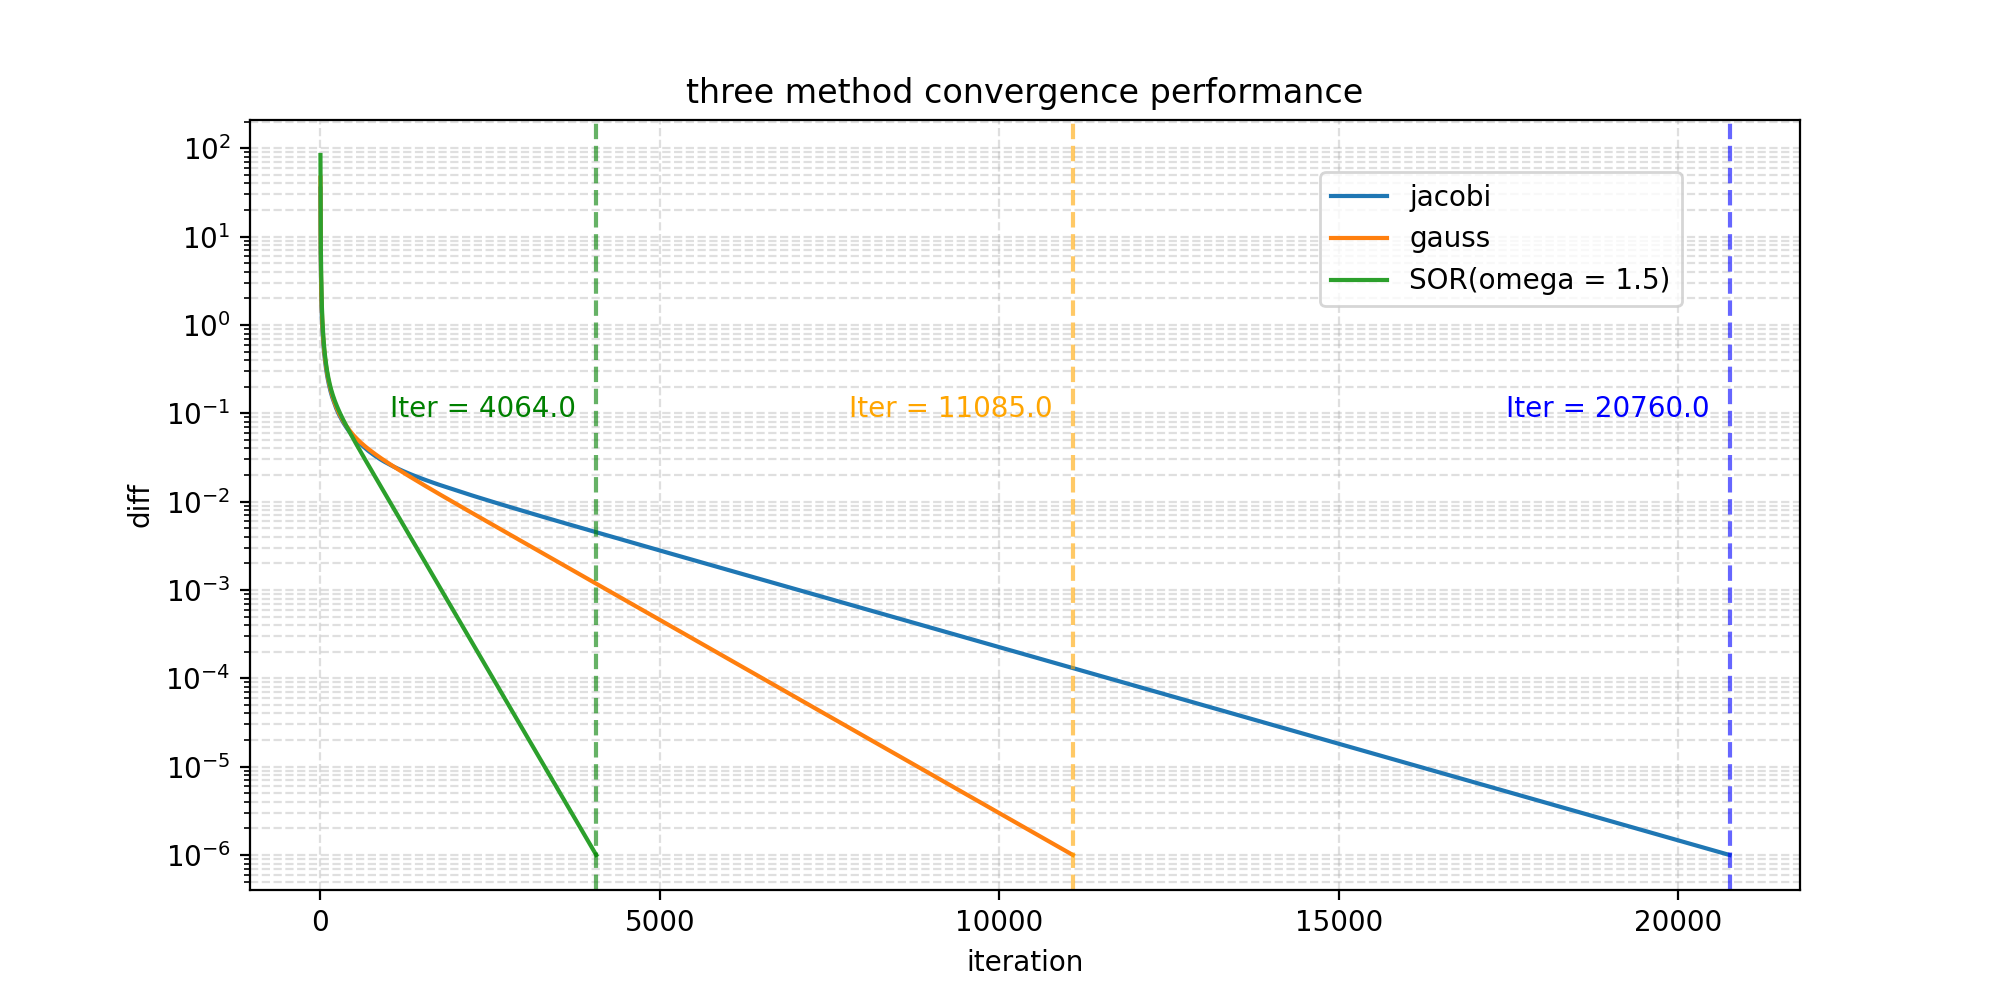
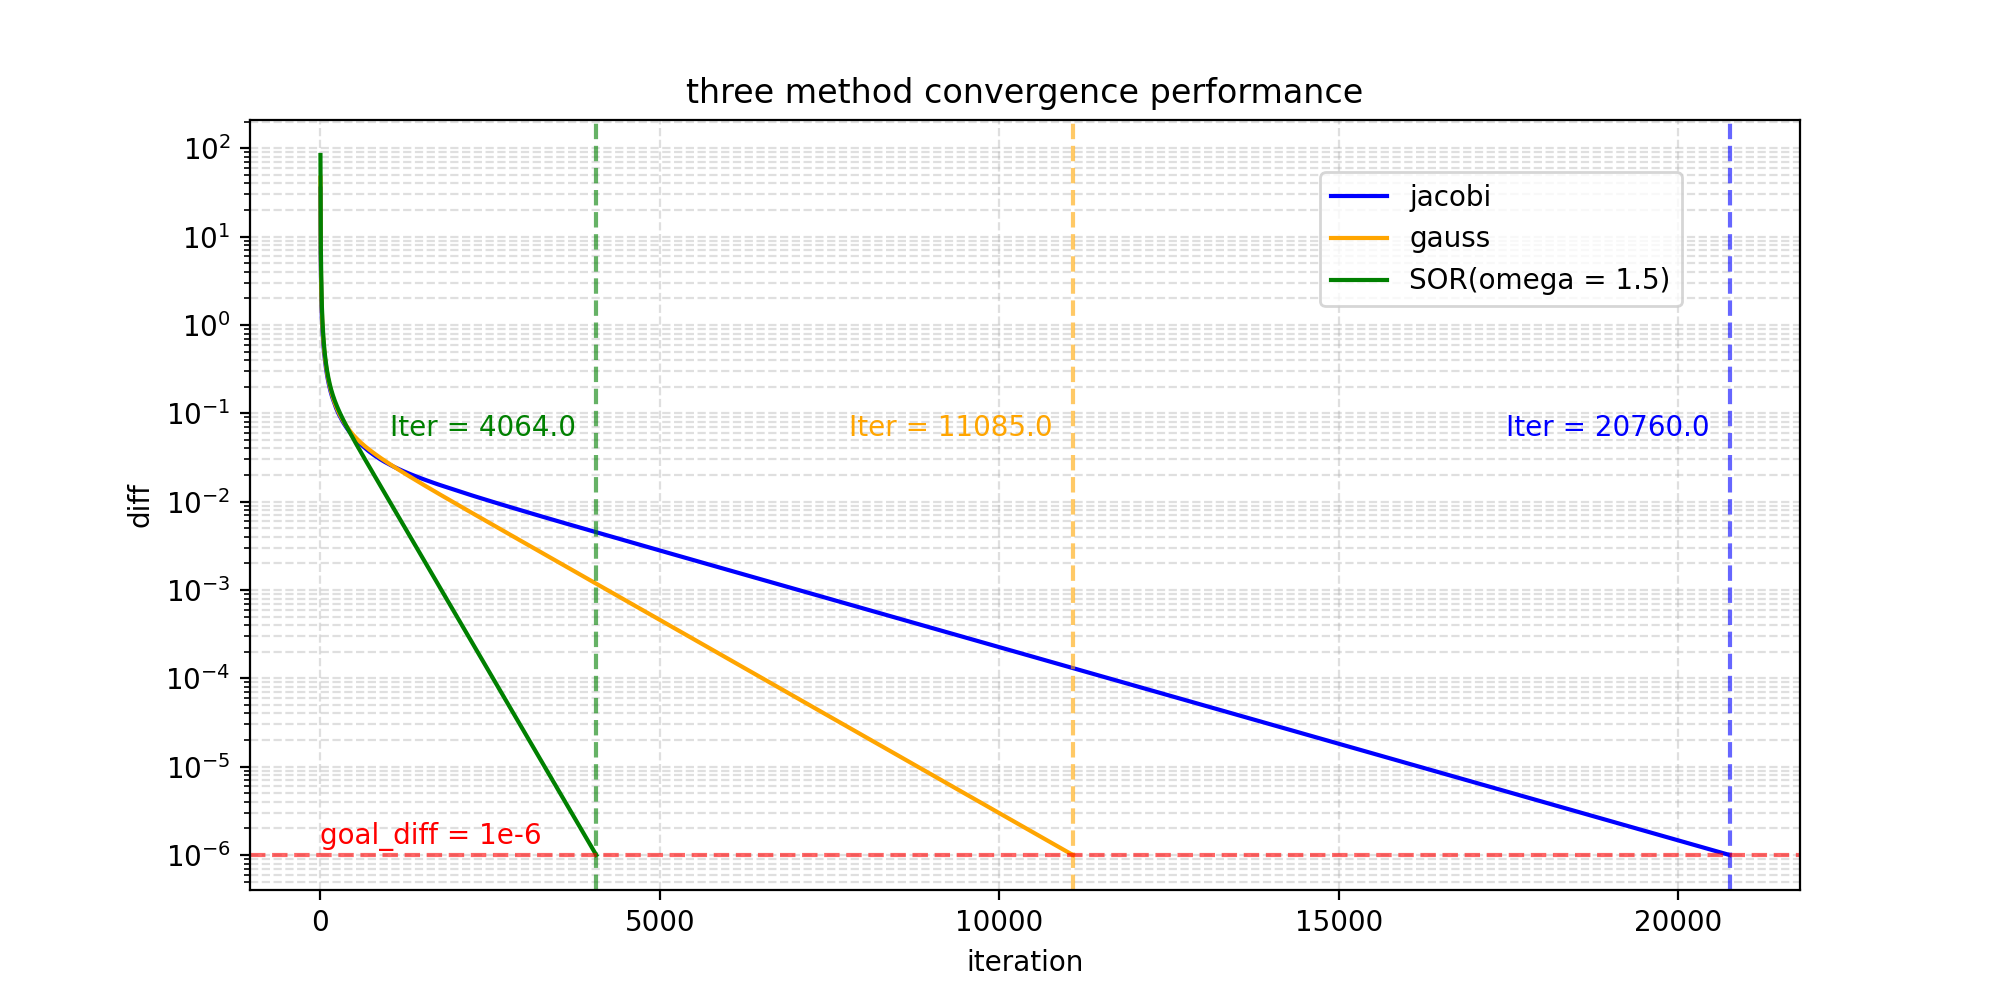
approve convergence comparison fig

diff --git a/scripts/plot_dif.py b/scripts/plot_dif.py
@@ -19,33 +19,63 @@ final_gauss = iteration_gauss[-1]
 final_SOR = iteration_SOR[-1]
 
 fig, ax = plt.subplots(1, 1, figsize=(10, 5))
-im1 = ax.semilogy(iteration_jacobi, dif_jacobi, label="jacobi")
-im1 = ax.semilogy(iteration_gauss, dif_gauss, label="gauss")
-im1 = ax.semilogy(iteration_SOR, dif_SOR, label="SOR(omega = 1.5)")
+im1 = ax.semilogy(iteration_jacobi, dif_jacobi, label="jacobi", color="blue")
+im1 = ax.semilogy(iteration_gauss, dif_gauss, label="gauss", color="orange")
+im1 = ax.semilogy(iteration_SOR, dif_SOR, label="SOR(omega = 1.5)", color="green")
 
 ax.axvline(x=final_jacobi, color="blue", linestyle="--", alpha=0.6)
 ax.axvline(x=final_gauss, color="orange", linestyle="--", alpha=0.6)
 ax.axvline(x=final_SOR, color="green", linestyle="--", alpha=0.6)
+ax.axhline(y=1e-6, color="red", linestyle="--", alpha=0.6)
 
-text_y_pos = 0.09
+transformmix = blended_transform_factory(ax.transData, ax.transAxes)
 
 ax.text(
-    final_jacobi - 300, text_y_pos, f"Iter = {final_jacobi}", color="blue", ha="right"
+    final_jacobi - 300,
+    0.6,
+    f"Iter = {final_jacobi}",
+    transform=transformmix,
+    color="blue",
+    ha="right",
+    va="center",
 )
 ax.text(
-    final_gauss - 300, text_y_pos, f"Iter = {final_gauss}", color="orange", ha="right"
+    final_gauss - 300,
+    0.6,
+    f"Iter = {final_gauss}",
+    transform=transformmix,
+    color="orange",
+    ha="right",
+    va="center",
 )
-ax.text(final_SOR - 300, text_y_pos, f"Iter = {final_SOR}", color="green", ha="right")
+ax.text(
+    final_SOR - 300,
+    0.6,
+    f"Iter = {final_SOR}",
+    transform=transformmix,
+    color="green",
+    ha="right",
+    va="center",
+)
 
+ax.text(
+    0,
+    1e-6 * 1.1,
+    f"goal_diff = 1e-6",
+    transform=ax.transData,
+    color="red",
+    va="bottom",
+    ha="left",
+)
 ax.set_title("three method convergence performance")
 ax.set_xlabel("iteration")
 ax.set_ylabel("diff")
 
-transform = blended_transform_factory(ax.transData, ax.transAxes)
+
 ax.legend(
     loc="upper right",
     bbox_to_anchor=(final_jacobi - 500, 0.95),
-    bbox_transform=transform,
+    bbox_transform=transformmix,
 )
 ax.grid(True, which="both", linestyle="--", alpha=0.4)
 

diff --git a/scripts/plot_heat.py b/scripts/plot_heat.py
@@ -12,7 +12,7 @@ data = np.loadtxt(csv_path, delimiter=",")
 print(data.shape)
 print(data)
 
-fig, ax = plt.subplots(1, 1, figsize=(6, 5), ncostrained_layout=True)
+fig, ax = plt.subplots(1, 1, figsize=(6, 5), constrained_layout=True)
 im = ax.imshow(data, origin="lower", aspect="equal", vmin=0, vmax=40)
 ax.set_title("temperature filed")
 
